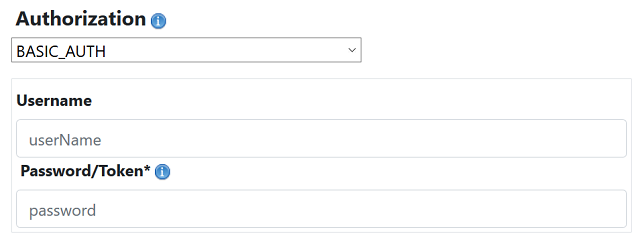
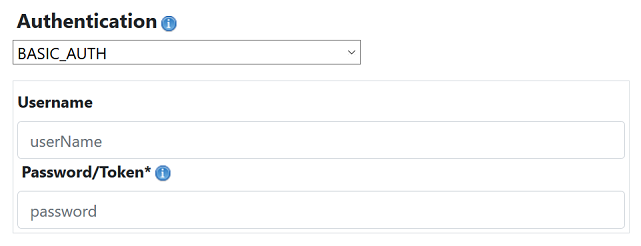
Updated after comments

diff --git a/src/main/resources/templates/subscription.html b/src/main/resources/templates/subscription.html
@@ -261,10 +261,10 @@
 
                         <!--  AUTHENTICATION  -->
                         <div class="pt-3 form-group">
-                            <label class="h5 pl-1 control-label font-weight-bold">Authorization</label>
+                            <label class="h5 pl-1 control-label font-weight-bold">Authentication</label>
                             <img class="cursor-pointer" id="authInfo" alt="Auth Info"
                                 src="assets/images/information.png" data-toggle="tooltip" data-placement="top"
-                                title="This selector enables you to select different authorization methods. <br>
+                                title="This selector enables you to select different authentication methods. <br>
                                     NO_AUTH: No Authentication used<br>
                                     BASIC_AUTH: Username and password will be Base 64 encoded<br>
                                     BASIC_AUTH Jenkins CSRF Protection (crumb): Username and password will be Base 64 encoded.

diff --git a/wiki/markdown/add-subscription.md b/wiki/markdown/add-subscription.md
@@ -43,7 +43,7 @@ used as a password for authentication against the entire jenkins instance.
 <img border="1" src="images/subscription_add_part3.png">
 </img>
 
-**Authorization:** A list to select authorization type.
+**Authentication:** A list to select authentication type.
 * NO_AUTH: _No Authentication used_
 * BASIC_AUTH: _Username and password will be Base 64 encoded_
 * BASIC_AUTH Jenkins CSRF Protection (crumb): _Username and password will
